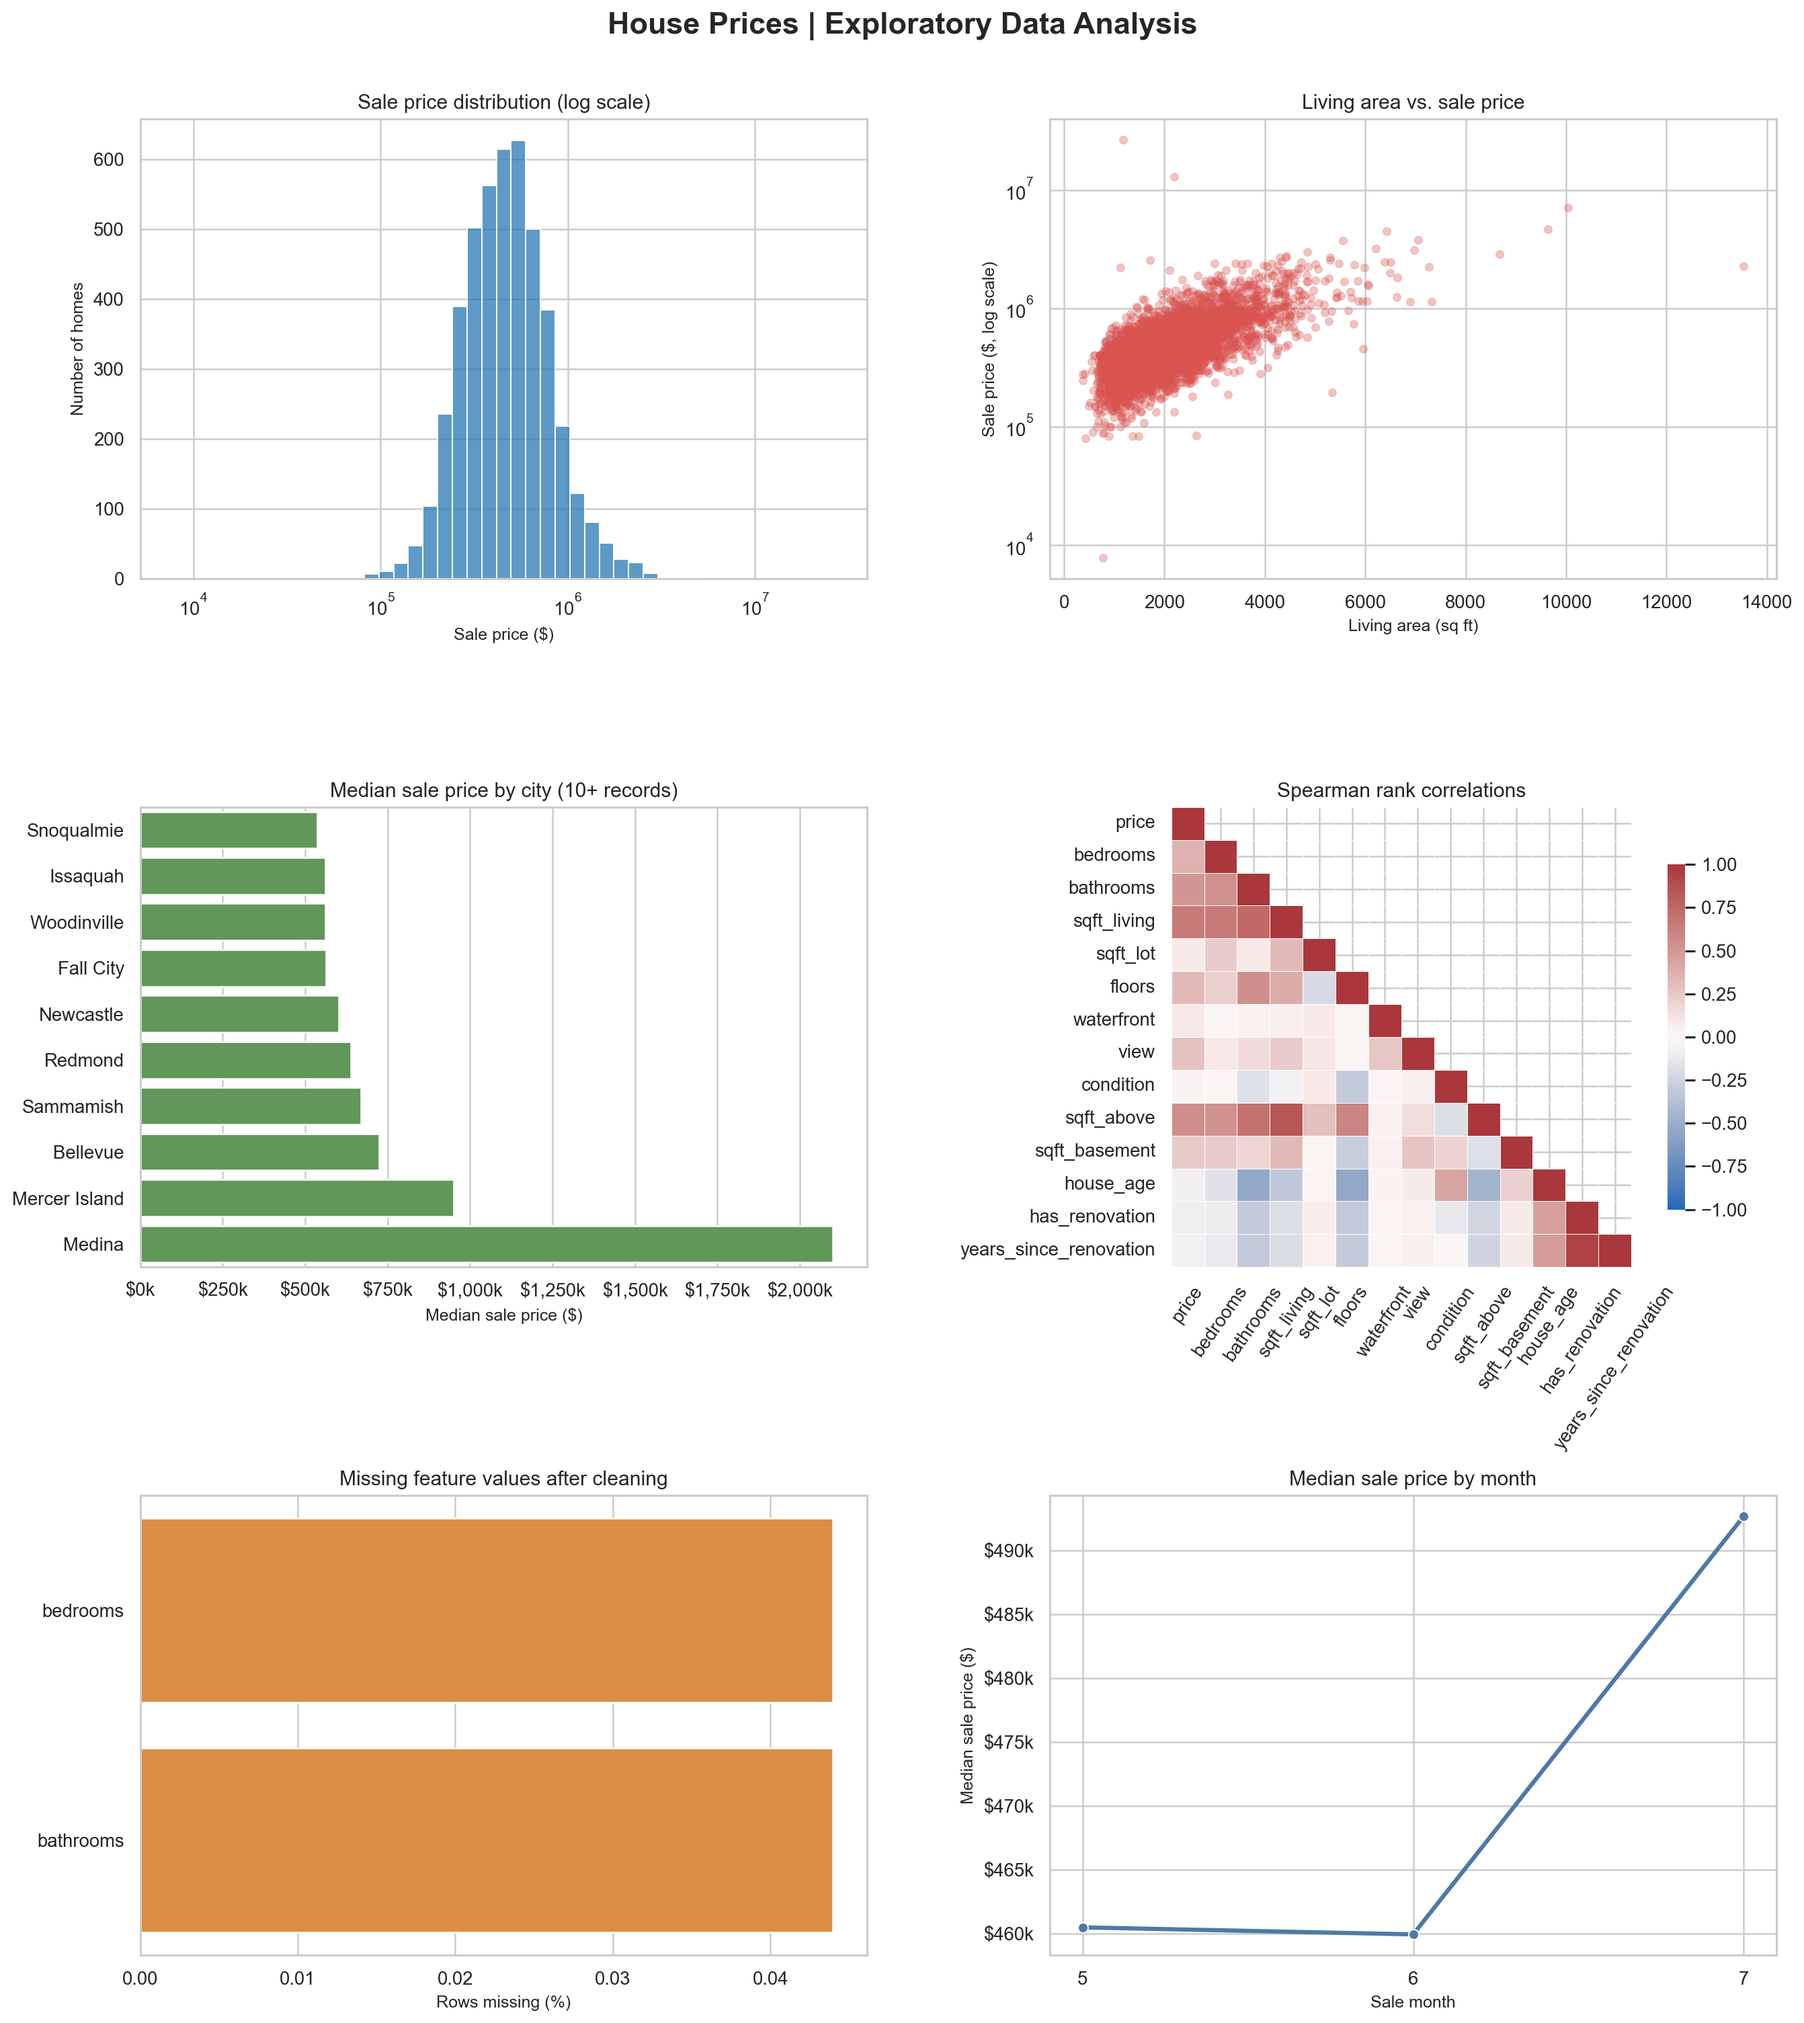
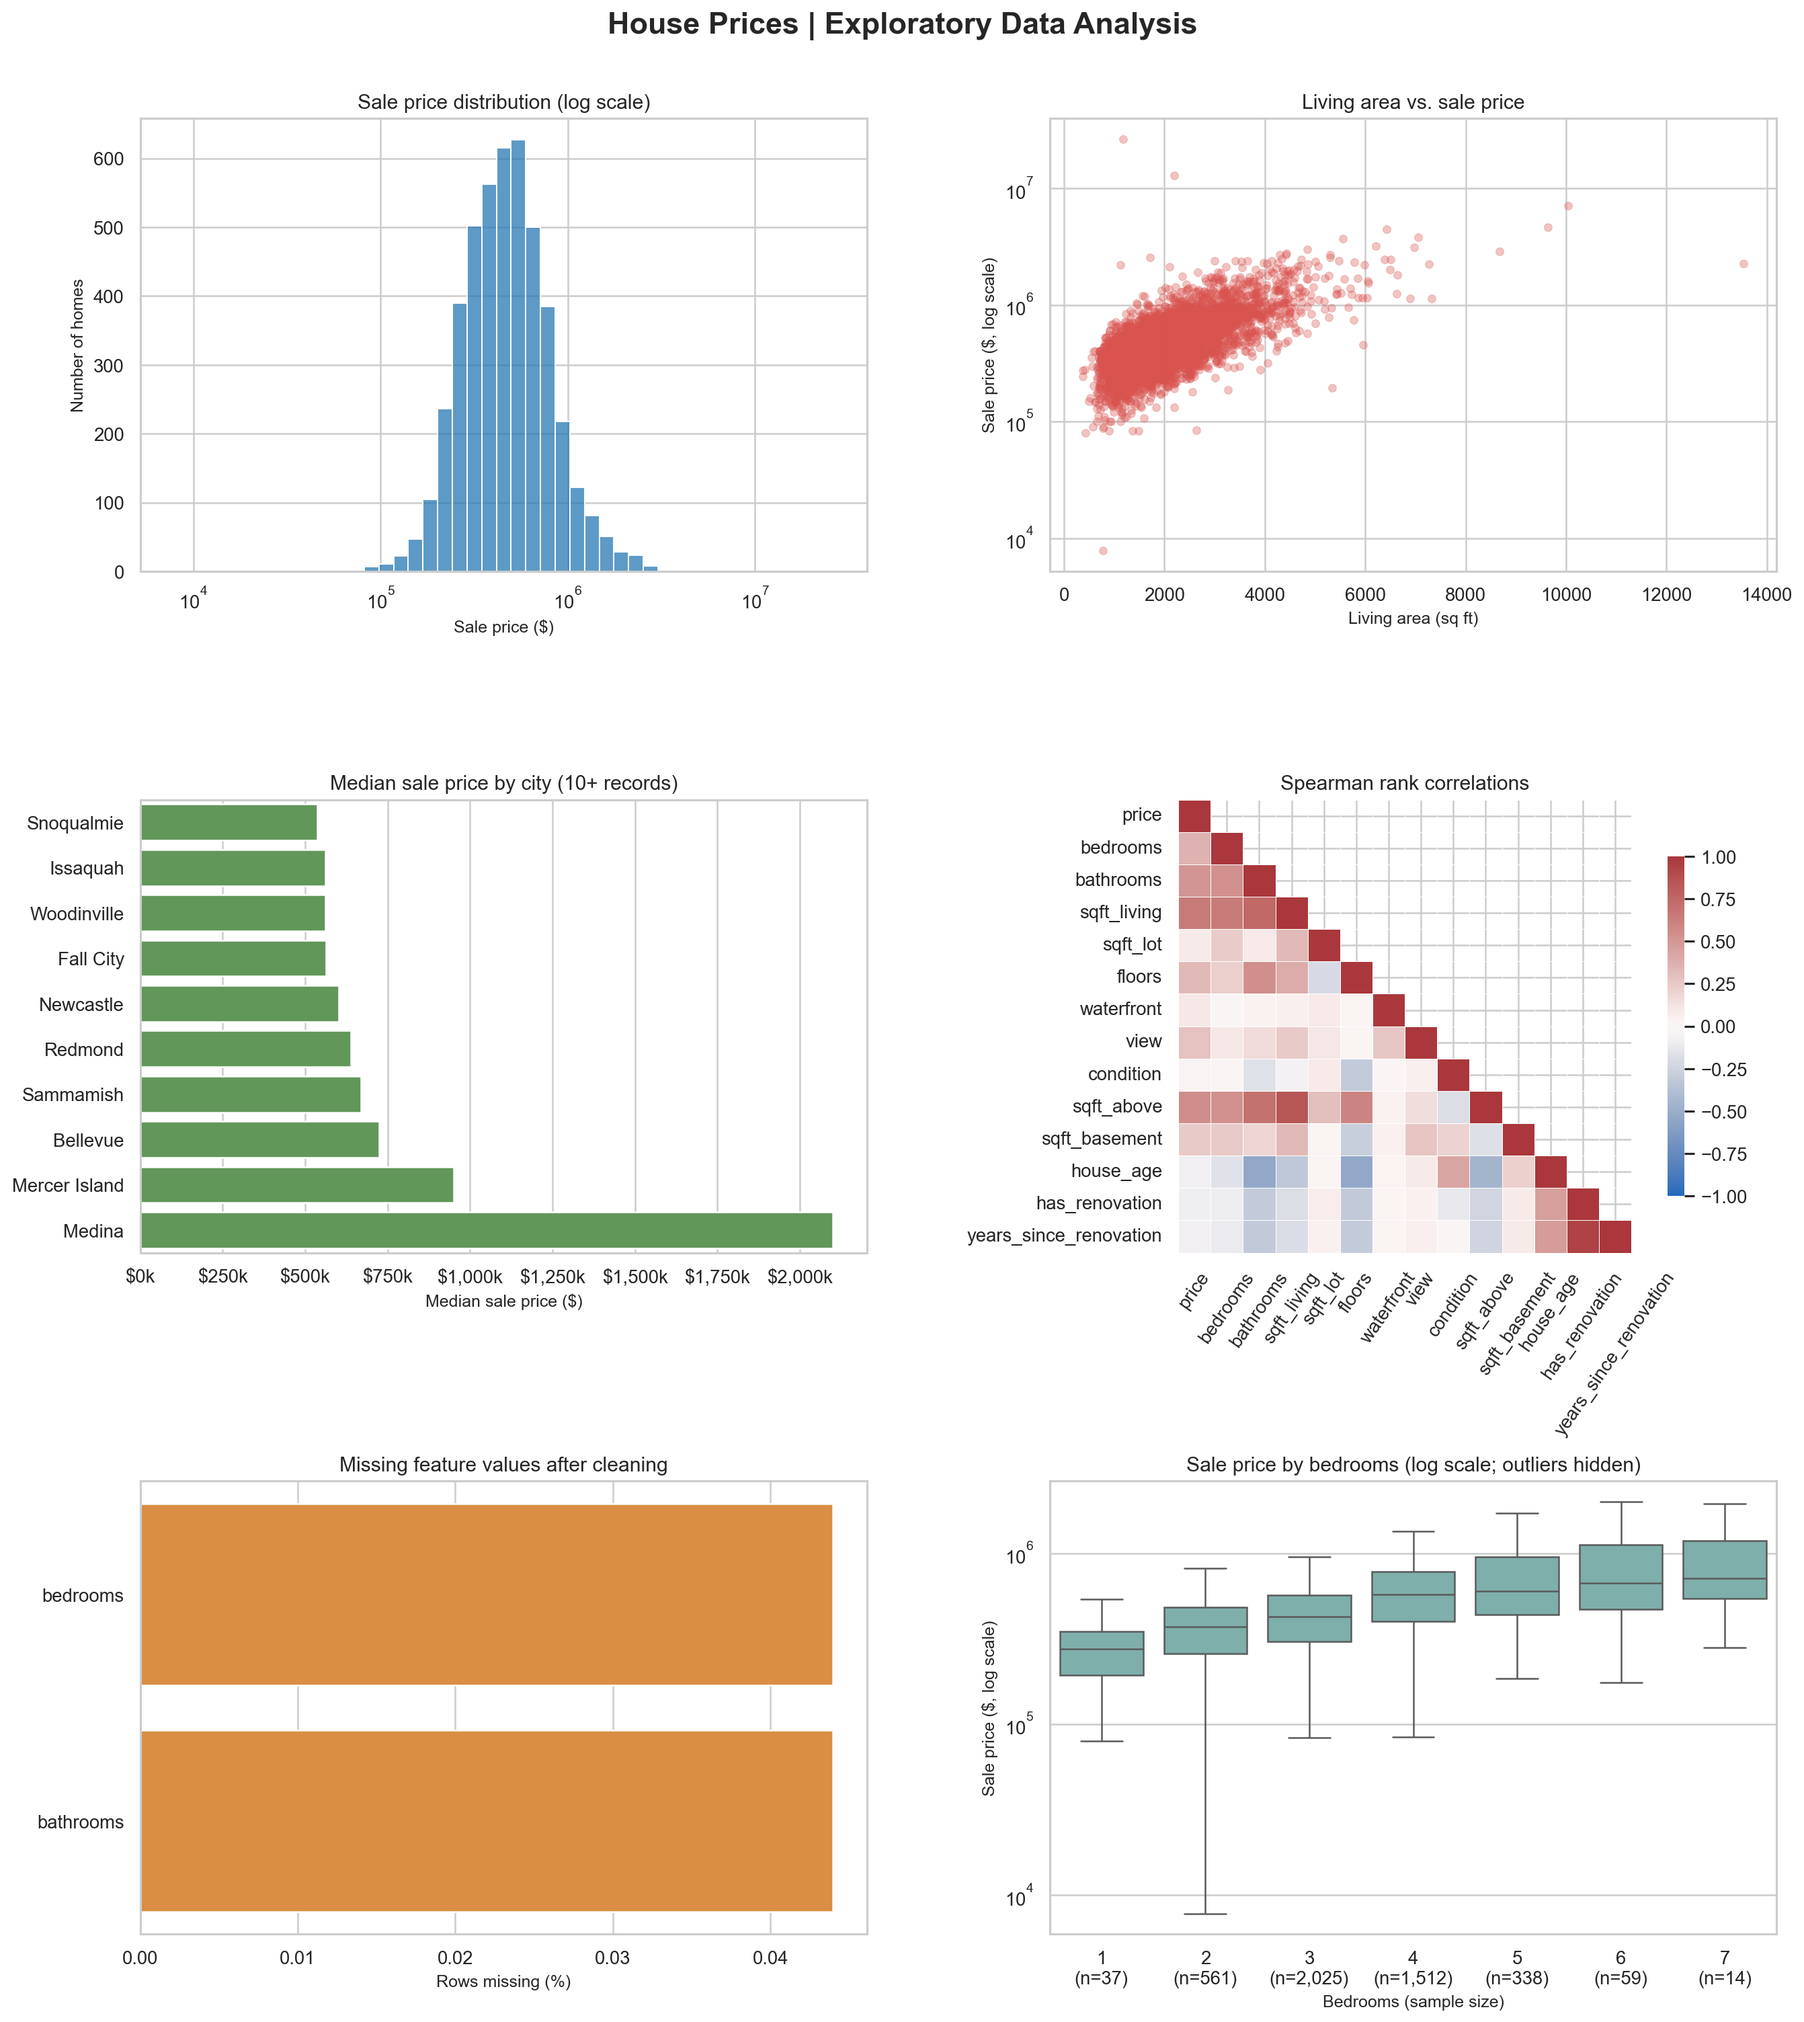
Updated the Project_05 dashboard for creating some more informative charts.

diff --git a/Data_Analysis_Projects/Project_05/eda_house_prices.py b/Data_Analysis_Projects/Project_05/eda_house_prices.py
@@ -223,7 +223,7 @@ def create_dashboard(frame: pd.DataFrame, output_path: Path) -> None:
     """Save a six-panel EDA dashboard using the cleaned observations."""
     fig, axes = plt.subplots(3, 2, figsize=(15, 17))
     fig.suptitle("House Prices | Exploratory Data Analysis", fontsize=18, weight="bold")
-    ax_price, ax_area, ax_city, ax_corr, ax_missing, ax_month = axes.flat
+    ax_price, ax_area, ax_city, ax_corr, ax_missing, ax_bedrooms = axes.flat
 
     sns.histplot(
         data=frame,
@@ -334,27 +334,29 @@ def create_dashboard(frame: pd.DataFrame, output_path: Path) -> None:
         ax_missing.set_xlabel("Rows missing (%)")
         ax_missing.set_ylabel("")
 
-    monthly = (
-        frame.groupby("sale_month", observed=True)[TARGET]
-        .agg(["median", "count"])
-        .reset_index()
+    bedroom_counts = frame["bedrooms"].value_counts()
+    supported_bedrooms = sorted(bedroom_counts.loc[bedroom_counts.ge(10)].index)
+    bedroom_data = frame.loc[frame["bedrooms"].isin(supported_bedrooms)]
+    sns.boxplot(
+        data=bedroom_data,
+        x="bedrooms",
+        y=TARGET,
+        order=supported_bedrooms,
+        showfliers=False,
+        color="#76B7B2",
+        ax=ax_bedrooms,
     )
-    sns.lineplot(
-        data=monthly,
-        x="sale_month",
-        y="median",
-        marker="o",
-        linewidth=2.5,
-        color="#4E79A7",
-        ax=ax_month,
+    ax_bedrooms.set_yscale("log")
+    ax_bedrooms.set_title("Sale price by bedrooms (log scale; outliers hidden)")
+    ax_bedrooms.set_xlabel("Bedrooms (sample size)")
+    ax_bedrooms.set_ylabel("Sale price ($, log scale)")
+    ax_bedrooms.set_xticks(
+        range(len(supported_bedrooms)),
+        labels=[
+            f"{int(bedrooms)}\n(n={int(bedroom_counts[bedrooms]):,})"
+            for bedrooms in supported_bedrooms
+        ],
     )
-    ax_month.set_title("Median sale price by month")
-    ax_month.set_xlabel("Sale month")
-    ax_month.set_ylabel("Median sale price ($)")
-    ax_month.yaxis.set_major_formatter(
-        plt.FuncFormatter(lambda value, _: f"${value / 1_000:,.0f}k")
-    )
-    ax_month.set_xticks(sorted(monthly["sale_month"].unique()))
 
     fig.tight_layout(rect=(0, 0, 1, 0.97))
     output_path.parent.mkdir(parents=True, exist_ok=True)

diff --git a/Data_Analysis_Projects/Project_05/README.md b/Data_Analysis_Projects/Project_05/README.md
@@ -34,6 +34,12 @@ The script uses NumPy, pandas, Matplotlib, and Seaborn to:
    model table while retaining city and ZIP code.
 6. Save a diagnostic dashboard, audit tables, a text report, and cleaned CSV.
 
+The Seaborn dashboard compares the sale-price distribution, living area and
+price, city-level median prices, feature correlations, remaining missing values,
+and sale-price distributions by bedroom count. The bedroom boxplots use a
+logarithmic price axis, include categories with at least 10 homes, and hide
+individual outlier markers so the typical price ranges remain readable.
+
 Missing feature values are intentionally retained. Fit imputation, scaling, and
 categorical encoders on training data only (ideally in a scikit-learn pipeline)
 to prevent data leakage. IQR outliers are reported, not automatically removed:
